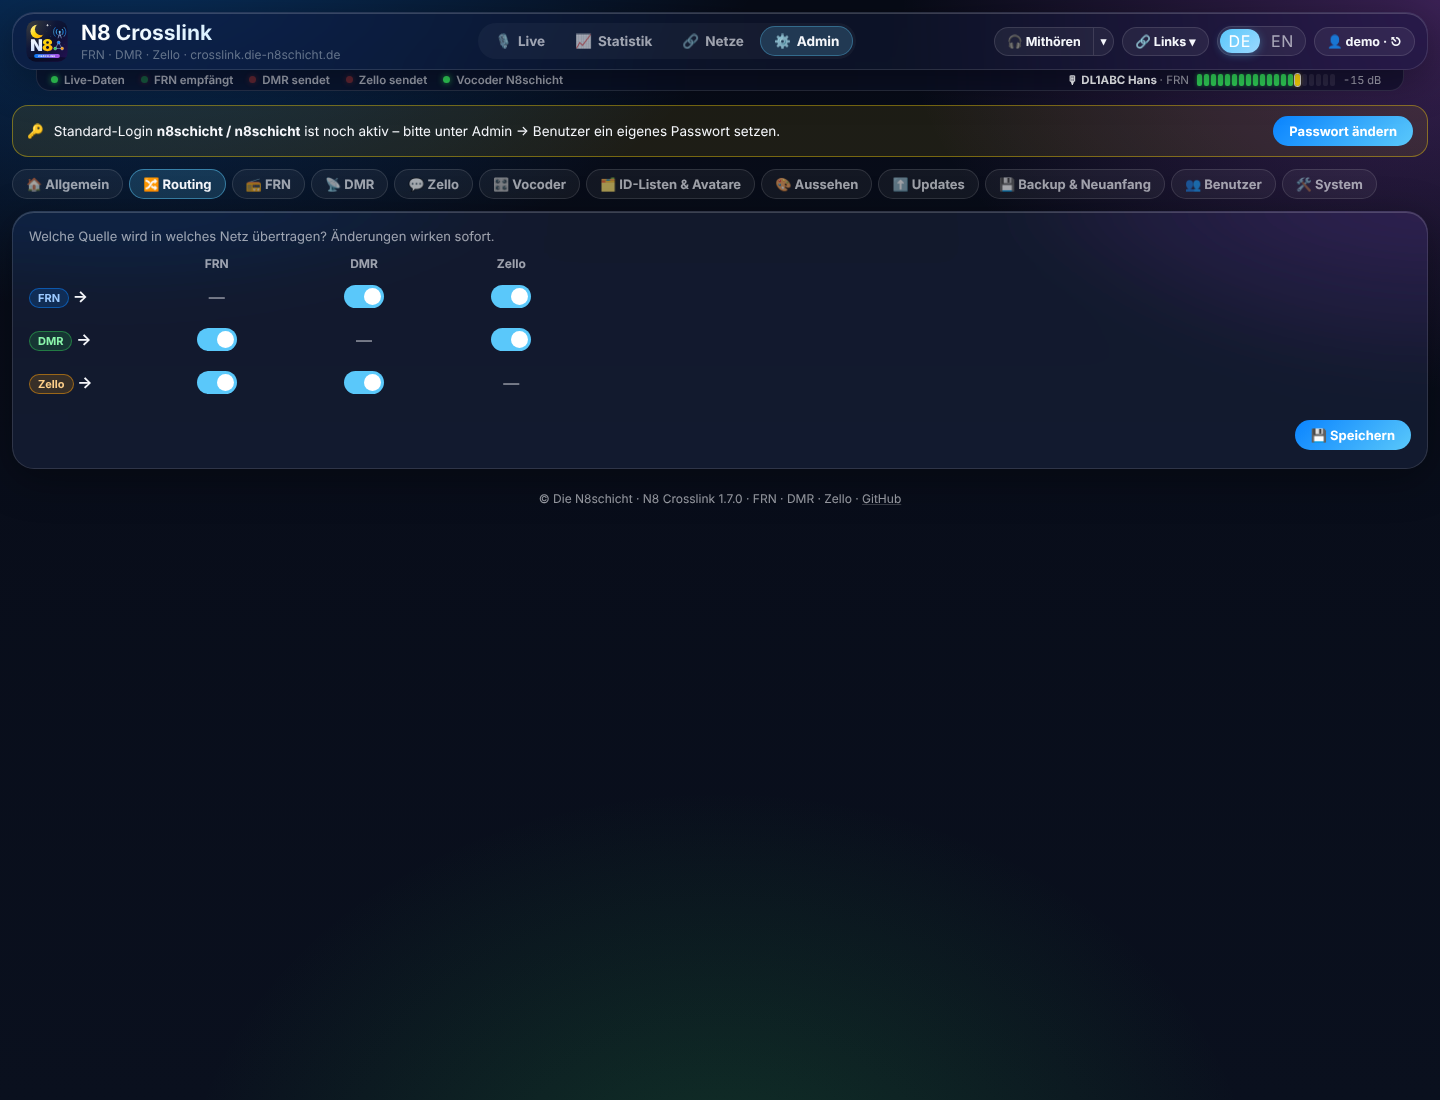
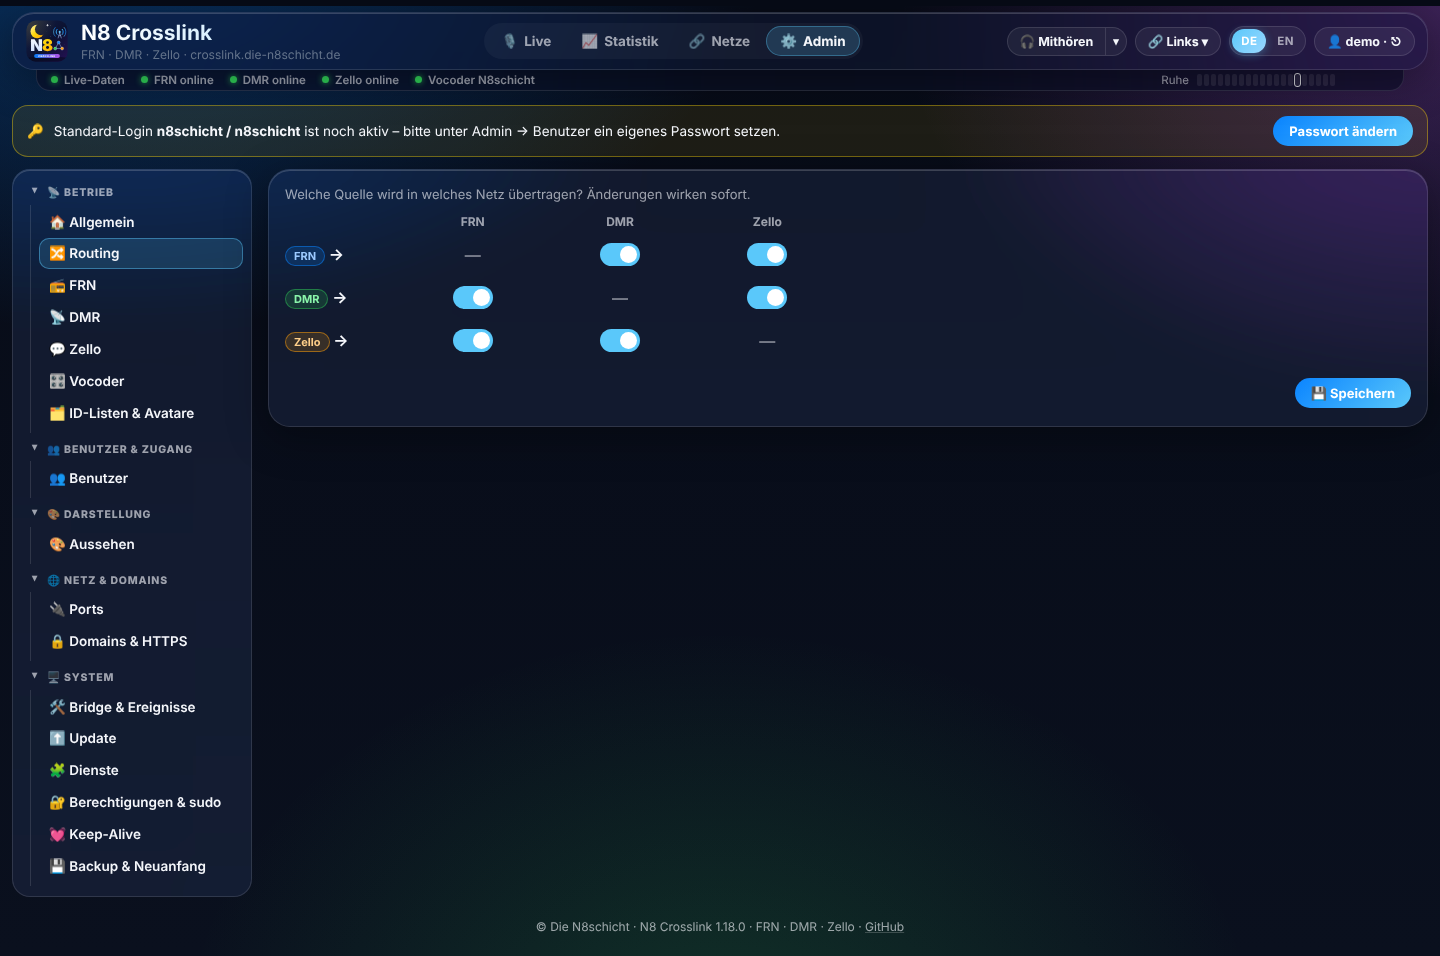
Release 1.18.0: Baum-Menü, einheitlicher Bereich System, Keep-Alive
Ausführlich in CHANGELOG.md. Doku (Konfiguration, Betrieb, Installation, Fehlersuche, README) und Screenshots aktualisiert.

Claude-Session: https://claude.ai/code/session_01J5RG2nh5KG4yZP2DtuvZ9u

diff --git a/n8crosslink/web/static/n8-kit.css b/n8crosslink/web/static/n8-kit.css
@@ -157,3 +157,4 @@ html[data-theme-mode=light] .n8-log { background: rgba(0, 0, 0, .05); }
 .n8-admin-main .grid > .tile, .n8-admin-main .tiles > .tile, .hb-admin .station-grid > .tile { display: flex; flex-direction: column; min-width: 0; }
 .n8-admin-main .grid > .tile > .actions:last-child, .hb-admin .station-grid > .tile > .set-actions:last-child { margin-top: auto; padding-top: 12px; }
 .n8-sys-extra > .grid { grid-template-columns: 1fr !important; }
+.n8-card > p.n8-help { margin: 0 0 10px; }

diff --git a/n8crosslink/__init__.py b/n8crosslink/__init__.py
@@ -1,2 +1,2 @@
 """N8 Crosslink – FRN · DMR · Zello Bridge im Die-N8schicht-Design."""
-__version__ = "1.17.0"
+__version__ = "1.18.0"

diff --git a/docs/BETRIEB.md b/docs/BETRIEB.md
@@ -1,4 +1,4 @@
-# Betrieb: Watchdogs, Updates, sudo & Berechtigungen
+# Betrieb: Watchdogs, Keep-Alive, Updates, sudo & Berechtigungen
 
 ## Watchdogs
 
@@ -13,21 +13,41 @@
 
 Jeder Verbindungsverlust und jede Wiederherstellung steht in den Ereignissen; Zähler (Wiederverbindungen, Neuaufbauten, letzter Grund, online/offline seit) unter **Netze**.
 
+### 💓 Keep-Alive (von außen, als root)
+
+![Keep-Alive](screenshots/admin-keepalive.png)
+
+Seit **1.18.0** wacht zusätzlich ein Keep-Alive **von außerhalb** der Bridge – derselbe wie in HobbyRadioPortal, ADN-FRN-Server,
+HBlink4-FreeRadioID und N8 Hotspot (N8 Admin-Kit, `scripts/n8-admin.sh`). `n8crosslink-keepalive.timer` startet **jede Minute als root**
+`scripts/n8-admin.sh keepalive` und fragt `/api/n8/health` (nur lokal erreichbar):
+
+| Was | Wie |
+|---|---|
+| **Weboberfläche** | antwortet sie? |
+| **FRN · DMR · Zello · Vocoder** | jedes eingeschaltete Netz wirklich verbunden (FRN angemeldet, DMR am Master, Zello im Kanal), Vocoder bereit |
+| **Neustart** | die Bridge verbindet sich selbst neu – erst wenn ein Netz **5 Minuten** weg bleibt (oder der Dienst `failed` ist), startet der Keep-Alive `n8crosslink.service` neu, **höchstens 4× je Stunde** |
+| **Internet-Ausfall** | 1.1.1.1, 9.9.9.9 und github.com (Port 443) nicht erreichbar → keine sinnlosen Neustarts; ist das Netz nach mindestens 60 s wieder da, wird die Bridge einmal neu gestartet, damit alle drei Netze sofort wieder stehen |
+| **Heartbeat** | optional jede Minute ein Ping an Uptime Kuma („Push“) oder Healthchecks.io, bei Fehlern an die Fehler-Adresse |
+| **Wartung** | **⏸ 1 h pausieren**; ein unter *Dienste* gestoppter Dienst bleibt gestoppt |
+
+Einstellungen unter **⚙ Admin → 🖥 System → 💓 Keep-Alive**; Dateien `data/keepalive.conf`, `keepalive.json`, `keepalive.log`.
+Eingerichtet von Installer, Update und `install.sh --fix-perms`.
+
 ## Updates
 
 Hinweis, Updates-Seite und Fortschritt kommen aus dem **N8 Kit** und sehen in N8 Crosslink, HBlink4-FreeRadioID, adn-frn-server und N8-HotSpot gleich aus (siehe [SICHERHEIT.md](SICHERHEIT.md#n8-kit)).
 
 * Prüfung **stündlich zur vollen Stunde** (und kurz nach dem Start): Versionsnummer in `n8crosslink/__init__.py` auf GitHub (`dhartmann1979/N8Crosslink`, Branch `main`) gegen die installierte Version.
-* Neue Version → Hinweis unter der Statusleiste für angemeldete Admins: *Update verfügbar: 1.6.0 → 1.7.0* mit **Was ist neu?** (aus `CHANGELOG.md`), **Jetzt aktualisieren**, **Details** (öffnet Admin → Updates) und **Später** (blendet den Hinweis für diese Version einen Tag aus).
+* Neue Version → Hinweis unter der Statusleiste für angemeldete Admins: *Update verfügbar: 1.6.0 → 1.7.0* mit **Was ist neu?** (aus `CHANGELOG.md`), **Jetzt aktualisieren**, **Details** (öffnet Admin → System → Update) und **Später** (blendet den Hinweis für diese Version einen Tag aus).
 * **Jetzt aktualisieren** öffnet ein Fenster mit den Neuerungen; nach der Bestätigung drei Schritte mit Fortschritt: *Update wird geladen und eingespielt → Dienst startet neu → Weboberfläche wird geprüft*. Technisch startet es über sudo `n8crosslink-update.service` (als root) → `update.sh --auto`: Quellen holen, Installer im Update-Modus (Abhängigkeiten, Berechtigungen, sudo-Freigaben), Dienst neu starten, Weboberfläche per HTTP prüfen. Antwortet sie nicht, stellt `update.sh` die vorige Version wieder her. Die Seite lädt danach von selbst neu.
-* Ergebnis unter **Admin → Updates → Letztes Update** (*erfolgreich* oder *zurückgenommen*), gespeichert in `data/update.result` – dasselbe Format wie in den anderen N8schicht-Projekten.
+* Ergebnis unter **Admin → System → ⬆ Update** (Kachel *Update-Protokoll*) (*erfolgreich* oder *zurückgenommen*), gespeichert in `data/update.result` – dasselbe Format wie in den anderen N8schicht-Projekten.
 * Ersatzweg ohne sudo: `n8crosslink-update.path` reagiert auf `data/update.request`.
 
 ![Updates](screenshots/admin-updates.png)
 
 ## Dienste
 
-**⚙ Admin → 🛠 System → Dienste** zeigt schlank alle freigegebenen Dienste: Status (läuft / gestoppt / Fehler), **Autostart** als Schalter
+**⚙ Admin → 🖥 System → 🧩 Dienste** zeigt schlank alle freigegebenen Dienste: Status (läuft / gestoppt / Fehler), **Autostart** als Schalter
 (aktivieren/deaktivieren beim Booten) und je nach Zustand **🔄 Neu starten** und **⏹ Stoppen** oder **▶ Starten**. Dabei sind
 `n8crosslink.service`, der Update-Auslöser `n8crosslink-update.path` und erkannte alte Dienste (svxlink, mmdvm_bridge, analog_bridge,
 ambeserver, Zello-Bridge). Stoppen oder Autostart aus fragt nach; wer N8 Crosslink selbst stoppt, startet es danach nur auf der Konsole wieder
@@ -64,7 +84,7 @@ sudo /opt/n8crosslink/install.sh --check-perms     # nur prüfen, ändert nichts
 sudo /opt/n8crosslink/install.sh --fix-perms       # prüfen → korrigieren (auch sudo) → erneut prüfen
 ```
 
-Im Webinterface: **⚙ Admin → 🛠 System → 🔐 Berechtigungen & sudo** – die Liste wird beim Öffnen geprüft, **🛠 Korrigieren** repariert
+Im Webinterface: **⚙ Admin → 🖥 System → 🔐 Berechtigungen & sudo** – die Liste wird beim Öffnen geprüft, **🛠 Korrigieren** repariert
 und zeigt das Ergebnis der zweiten Prüfung.
 
 ![Berechtigungen & sudo](screenshots/admin-perms.png)

diff --git a/README.md b/README.md
@@ -36,12 +36,12 @@ Alles läuft in **einem** Python-Dienst mit Live-Dashboard und Adminportal – i
 | 💾 **Backup** | Alles als vollständig verschlüsselte Datei zum Download (AES-256-GCM). **Der Schlüssel ist das Superadmin-Passwort – im Passwortsafe aufbewahren!** Wiederherstellen im Webinterface, per CLI oder direkt im Installer. |
 | ♻ **Neuanfang** | Zurücksetzen im Webinterface (Verlauf / Einstellungen / alles) und `uninstall.sh` mit „Daten behalten“ oder „komplett entfernen“, inkl. Wiedereinschalten der alten Dienste |
 | 📊 **Dashboard** | On-Air-Anzeige mit Pegel und Zeit, Netzkarten mit RX/TX – **LEDs: 🔴 Rot = Senden, 🟣 Magenta = Empfangen, 🟢 Grün = Dienst ok** –, Last Heard, FRN-Raumliste, Ereignisse, Statistik (Heute … 90 Tage) |
-| ⚙ **Adminportal** | Alle Einstellungen in SQLite, Benutzerverwaltung, Bridge-/Dienst-Neustart, ID-Datenbank-Update, Export/Import |
+| ⚙ **Adminportal** | Baum-Menü und Bereich *System* wie in allen N8-Systemen, alle Einstellungen in SQLite, Benutzerverwaltung, Bridge-/Dienst-Neustart, ID-Datenbank-Update, Export/Import |
 | 🔊 **Sprachansage & Sprechername** | Optional: Computerstimme sagt das Rufzeichen am Anfang des Durchgangs an (espeak-ng, Buchstaben oder NATO, je Zielnetz). Sprechername als FRN-Textnachricht – öffentlich oder **privat nur an ausgewählte Stationen** |
-| 🐕 **Watchdogs** | Jede Verbindung (FRN, DMR, Zello) baut sich nach einem Abbruch selbst neu auf; zusätzlich baut ein Watchdog ein Netz komplett neu auf, wenn es zu lange offline bleibt oder seine Verbindungsschleife stirbt. Der Vocoder wird bei Ausfall neu geöffnet (AMBEserver im Lockstep mit neuem Socket nach jedem Timeout), und der systemd-Watchdog startet den Dienst neu, falls er hängt |
+| 🐕 **Watchdogs** | Jede Verbindung (FRN, DMR, Zello) baut sich nach einem Abbruch selbst neu auf; zusätzlich baut ein Watchdog ein Netz komplett neu auf, wenn es zu lange offline bleibt oder seine Verbindungsschleife stirbt. Der Vocoder wird bei Ausfall neu geöffnet (AMBEserver im Lockstep mit neuem Socket nach jedem Timeout), und der systemd-Watchdog startet den Dienst neu, falls er hängt. **💓 Keep-Alive** von außen (jede Minute als root): prüft jedes Netz, startet nach 5 Minuten Ausfall neu, erkennt Internet-Ausfälle, meldet sich bei Uptime Kuma / Healthchecks.io |
 | 🗂 **ID-Listen** | Alle Listen der FreeRadioID.net-API (alle DMR-IDs, registrierte IDs, Einzelabfrage unbekannter IDs) plus Talkgroup-Namen aus `n8schicht/talkgroup_ids.json` – 1× täglich und per Knopf |
 | 🖼 **Avatare** | In SQLite zwischengespeichert (192 px WebP), 1× täglich oder per Knopf aktualisiert: FreeRadioID-Bilder für DMR, Rufzeichen-Zuordnung für FRN und Zello, eigene Zello-Bilder per Upload |
-| ⬆ **Updates** | Prüfung stündlich zur vollen Stunde, Banner mit Änderungen, **„Update jetzt“** direkt im Webinterface |
+| ⬆ **Updates** | Prüfung stündlich zur vollen Stunde, Banner mit Änderungen, **„Update jetzt“** direkt im Webinterface (ohne Passwort, mit Update-Protokoll) |
 | 🛠 **Alles im Webinterface** | Dank eng begrenztem `sudo`: Dienst-Neustart, N8schicht-Vocoder bauen, alte Dienste (Start/Stopp/Autostart), Berechtigungen prüfen, Server-Neustart |
 | 🧭 **Geführter Installer** | Fragt alles Schritt für Schritt ab, prüft und korrigiert bei jeder Installation und jedem Update die Berechtigungen und sudo (Berechtigungsprüfer `install.sh --check-perms` / `--fix-perms`, auch im Webinterface), richtet sudo ein, löst auf Wunsch SvxLink & alte Zello-Bridge ab |
 
@@ -95,15 +95,15 @@ Senden in die Netze:
 |---|---|
 | ![FRN-Passwort](docs/screenshots/admin-frn-passwort-anfordern.png) | ![FRN](docs/screenshots/admin-frn.png) |
 
-| Admin – ID-Listen & Avatare | Admin – Updates |
+| Admin – ID-Listen & Avatare | Admin – System → Update (Baum-Menü wie in allen N8-Systemen) |
 |---|---|
 | ![ID-Listen](docs/screenshots/admin-idlisten-avatare.png) | ![Updates](docs/screenshots/admin-updates.png) |
 | **🎨 Aussehen** – N8 Theme 2, gleiche Farbprofile wie die anderen N8-Seiten | **🌐 Englisch** – Umschalter DE \| EN oben rechts |
 | ![Aussehen](docs/screenshots/admin-aussehen.png) | ![Englisch](docs/screenshots/dashboard-englisch.png) |
 
-| Admin – System (Dienste über sudo, Demo ohne systemd) | Admin – DMR |
+| Admin – System → 💓 Keep-Alive | Admin – DMR |
 |---|---|
-| ![System](docs/screenshots/admin-system.png) | ![DMR](docs/screenshots/admin-dmr.png) |
+| ![Keep-Alive](docs/screenshots/admin-keepalive.png) | ![DMR](docs/screenshots/admin-dmr.png) |
 
 | Hinweise: Update & Standard-Login | Mobil |
 |---|---|
@@ -117,7 +117,7 @@ Senden in die Netze:
 * [Zello verbinden – Schritt für Schritt](docs/ZELLO.md)
 * [Umstieg von SvxLink und der alten Zello-Bridge](docs/MIGRATION.md)
 * [Technik & Protokolle](docs/TECHNIK.md)
-* [Betrieb: Watchdogs, Updates, sudo & Berechtigungen](docs/BETRIEB.md)
+* [Betrieb: Watchdogs, Keep-Alive, Updates, sudo & Berechtigungen](docs/BETRIEB.md)
 * [Sicherheit, Sprache DE/EN & N8 Kit (gemeinsam mit HBlink4, adn-frn-server, N8-HotSpot)](docs/SICHERHEIT.md)
 * [Backup & Wiederherstellung](docs/BACKUP.md)
 * [Deinstallation & von vorn beginnen](docs/DEINSTALLATION.md)

diff --git a/CHANGELOG.md b/CHANGELOG.md
@@ -2,6 +2,55 @@
 
 Alle Änderungen an N8 Crosslink. Versionierung nach [SemVer](https://semver.org/lang/de/).
 
+## [1.18.0] – 2026-11-25
+
+### 🧭 Neu: Admin-Menü als Baum – in allen fünf N8-Systemen gleich
+- Die Reiterleiste im Adminbereich ist einem **Baum-Menü links** gewichen, wie im HobbyRadioPortal. Alle N8-Systeme
+  (HobbyRadioPortal, ADN-FRN-Server, HBlink4-FreeRadioID, N8 Hotspot, N8 Crosslink) nutzen jetzt **dieselben Gruppen in derselben
+  Reihenfolge**: 📡 Betrieb · 👥 Benutzer & Zugang · 🎨 Darstellung · 🌐 Netz & Domains · 🖥 System.
+- Gruppen lassen sich auf- und zuklappen (der Zustand wird im Browser gemerkt); auf dem Handy wird das Menü zu einer
+  aufklappbaren Leiste „☰ <aktueller Bereich>“.
+- Crosslink: Allgemein, Routing, FRN, DMR, Zello, Vocoder und ID-Listen unter **Betrieb**; Ports und Domains unter
+  **Netz & Domains**; „🛠 Bridge & Ereignisse“ und Backup unter **System**.
+
+### 🖥 Neu: Derselbe Bereich „System“ überall
+- **⬆ Update · 🧩 Dienste · 🔐 Berechtigungen & sudo · 💓 Keep-Alive** sind gemeinsame Ansichten des N8 Kit 1.1.0 und sehen in
+  allen N8-Systemen gleich aus – mit denselben Texten, Knöpfen und Adressen (`/api/admin/services`, `/api/admin/perms`,
+  `/api/admin/perms/fix`, `/api/admin/keepalive`, `/api/admin/update-log`).
+- **Update:** Stand, GitHub, „Jetzt prüfen“, „Update jetzt installieren“ und daneben das **Update-Protokoll** mit dem Ergebnis des
+  letzten Updates (erfolgreich / zurückgenommen).
+- **Dienste:** Zustand, Autostart-Schalter und Starten · Stoppen · Neu starten – nur, was die sudo-Regeln freigeben.
+- **Berechtigungen & sudo:** zeigt zuerst nur, was nicht stimmt; die bestandenen Prüfungen klappen auf. **🛠 Korrigieren**
+  repariert und prüft erneut.
+- **Keep-Alive:** Zustand je Dienst, Internet, Heartbeat, Einstellungen und Protokoll.
+
+### 🔓 Update ohne Passwort
+- „Update jetzt“ fragte bei Crosslink schon bisher nicht nach dem Passwort – das gilt jetzt in allen N8-Systemen.
+
+### 📐 Symmetrische Blöcke
+- Kacheln einer Reihe sind im Adminbereich jetzt **gleich hoch**, die Knöpfe stehen unten bündig; eine einzelne letzte Kachel
+  nimmt die volle Breite ein.
+
+### 🧰 Kleinigkeiten
+- N8 Kit: Schriften im Menü und auf den Knöpfen werden jetzt richtig gesetzt (die `font`-Kurzform mit `inherit` war ungültig und
+  wurde vom Browser verworfen).
+
+### 💓 Neu: Keep-Alive – hohe Verfügbarkeit ohne Zutun
+- **Dienste-Wächter:** Ein systemd-Timer (`n8crosslink-keepalive.timer`) prüft **jede Minute als root**, ob jeder Dienst wirklich arbeitet –
+  nicht nur „läuft“, sondern die Weboberfläche antwortet und **jedes eingeschaltete Netz** wirklich verbunden ist (FRN angemeldet, DMR am Master, Zello im Kanal, Vocoder bereit). Bleibt ein Dienst 5 Minuten krank (oder steht er auf `failed`), wird er neu gestartet,
+  **höchstens 4× je Stunde** – danach meldet der Keep-Alive „aufgegeben“ statt endlos neu zu starten.
+- **Netz-Wiederverbindung:** Fällt das Internet aus (1.1.1.1, 9.9.9.9 und github.com auf Port 443 nicht erreichbar), startet der
+  Keep-Alive **nicht** sinnlos neu. Ist das Netz nach mindestens 60 s wieder da, startet er die Netzdienste einmal neu, damit
+  alle Verbindungen sofort wieder stehen (abschaltbar).
+- **Externer Ping (Heartbeat):** Optional eine Adresse für Uptime Kuma („Push“) oder Healthchecks.io – jede Minute ein Ping,
+  wenn alles gesund ist, sonst die Fehler-Adresse. So merkst du auch, wenn der ganze Server weg ist.
+- **Von Hand gestoppt bleibt gestoppt:** Wer einen Dienst im Webinterface stoppt, wird vom Keep-Alive nicht übergangen; erst
+  „Starten“ gibt ihn wieder frei. Für Wartungen gibt es **⏸ 1 h pausieren**.
+- Neue lokale Adresse `/api/n8/health` (nur von 127.0.0.1, nie über einen Proxy) liefert dem Keep-Alive den echten Zustand.
+- Eingerichtet von `install`, `update` und `fix-perms`; `check-perms` prüft den Timer mit.
+
+> Auf bestehenden Servern genügt „Update jetzt“ im Webinterface; der Keep-Alive richtet sich dabei selbst ein.
+
 ## [1.17.0] – 2026-11-25
 
 **🧹 HobbyRadioPortal-Anbindung entfernt · 🧩 Dienste schlank: aktivieren, deaktivieren, starten, stoppen, neu starten.**

diff --git a/docs/KONFIGURATION.md b/docs/KONFIGURATION.md
@@ -1,6 +1,11 @@
 # Konfiguration / Adminportal
 
-Anmelden über **🔐 Login** oben rechts – Standard **n8schicht / n8schicht** (bitte ändern, das Dashboard erinnert daran). Alle Werte liegen in SQLite (`/opt/n8crosslink/data/crosslink.db`); Passwörter werden nie im Klartext angezeigt (Feld leer lassen = unverändert).
+Anmelden über **🔐 Login** oben rechts – Standard **n8schicht / n8schicht** (bitte ändern, das Dashboard erinnert daran).
+
+Seit **1.18.0** steht links ein **Baum-Menü** – dasselbe wie in HobbyRadioPortal, ADN-FRN-Server, HBlink4-FreeRadioID und N8 Hotspot:
+**📡 Betrieb** (Allgemein, Routing, FRN, DMR, Zello, Vocoder, ID-Listen & Avatare) · **👥 Benutzer & Zugang** (Benutzer) ·
+**🎨 Darstellung** (Aussehen) · **🌐 Netz & Domains** (Ports, Domains & HTTPS) · **🖥 System** (Bridge & Ereignisse, Update, Dienste,
+Berechtigungen & sudo, Keep-Alive, Backup & Neuanfang). Auf dem Handy wird es zu einer aufklappbaren Leiste. Alle Werte liegen in SQLite (`/opt/n8crosslink/data/crosslink.db`); Passwörter werden nie im Klartext angezeigt (Feld leer lassen = unverändert).
 
 ## 🏠 Allgemein
 | Feld | Bedeutung |
@@ -130,8 +135,8 @@ Oben rechts neben *Links* schaltet **DE | EN** die Oberfläche um – Standard i
 
 ![Englisch](screenshots/dashboard-englisch.png)
 
-## ⬆ Updates
-Kachel im N8-Kit-Stil: installiert, auf GitHub, zuletzt geprüft, automatische Prüfung, letztes Update (erfolgreich/zurückgenommen), Update-Dienst, Neuerungen, **↻ Jetzt prüfen**, **⬆ Update jetzt installieren** und das Update-Protokoll. Ablauf und Rollback: [BETRIEB.md](BETRIEB.md#updates).
+## ⬆ Update (System)
+Dieselbe Ansicht wie in allen N8-Systemen: installiert, auf GitHub, zuletzt geprüft, automatische Prüfung, letztes Update (erfolgreich/zurückgenommen), Update-Dienst, Neuerungen, **↻ Jetzt prüfen**, **⬆ Update jetzt installieren** (ohne Passwort) und daneben das Update-Protokoll. Ablauf und Rollback: [BETRIEB.md](BETRIEB.md#updates).
 
 ## 🎛 Vocoder
 Betriebsart (N8schicht-Vocoder, USB-Stick, AMBEserver, Test), Pegel und Watchdog. Beim N8schicht-Vocoder öffnet **🎚 Klang-Einstellungen** auf der Karte ein Popup mit Reglern (wirken sofort), Grundabstimmung und Probehören – alle Regler erklärt in [VOCODER.md](VOCODER.md#-klang-einstellungen-popup).
@@ -195,5 +200,5 @@ Ports um (`nginx -t` vorher, sonst bleibt der alte Stand). Danach steht oben, wa
 API: `GET/POST /api/admin/ports`, `POST /api/admin/ports/apply` (nur angemeldete Admins). Der eigene DMR-Port steht zusätzlich unter
 *📡 DMR → Erweitert* (`dmr.local_port`).
 
-## 👥 Benutzer · 🛠 System
-Benutzer anlegen/löschen/Passwort ändern. System: **Dienste** (N8 Crosslink, Update-Auslöser, erkannte alte Dienste wie svxlink/mmdvm_bridge/Zello-Bridge) schlank mit Status, Autostart-Schalter und Starten/Stoppen/Neu starten; **🔐 Berechtigungen & sudo** (Liste aller Prüfungen, **🛠 Korrigieren** repariert und prüft erneut); **Server neu starten** (falls bei der Installation erlaubt); Bridge neu starten (nur die Netze), Dienst neu starten, ID-Listen aktualisieren, Konfiguration exportieren/importieren (ohne Passwörter), Ereignisprotokoll. Siehe [BETRIEB.md](BETRIEB.md).
+## 👥 Benutzer · 🖥 System
+Benutzer anlegen/löschen/Passwort ändern. Unter **System**: **🧩 Dienste** (N8 Crosslink, Update-Auslöser, erkannte alte Dienste wie svxlink/mmdvm_bridge/Zello-Bridge) schlank mit Status, Autostart-Schalter und Starten/Stoppen/Neu starten; **🔐 Berechtigungen & sudo** (zeigt, was nicht stimmt, **🛠 Korrigieren** repariert und prüft erneut); **💓 Keep-Alive**; **🛠 Bridge & Ereignisse** mit **Server neu starten** (falls bei der Installation erlaubt), Bridge neu starten (nur die Netze), Dienst neu starten, ID-Listen aktualisieren, Konfiguration exportieren/importieren (ohne Passwörter), Ereignisprotokoll. Siehe [BETRIEB.md](BETRIEB.md).

diff --git a/docs/FEHLERSUCHE.md b/docs/FEHLERSUCHE.md
@@ -25,7 +25,7 @@
 | Zello-Kanal „offline“ | Konto ist nicht Mitglied des Kanals oder der Kanal erlaubt keine API-Clients. |
 | Durchsagen werden „blockiert“ | Gleichzeitig wurde auf einem anderen Netz gesprochen – gewollter Schleifenschutz. Sperrzeit ggf. verkleinern. |
 | „sudo nicht eingerichtet“ im Adminportal | Einmal `sudo /opt/n8crosslink/update.sh` ausführen (legt sudo-Freigaben und Update-Dienst an). |
-| „Update jetzt“ passiert nichts | Admin → ⬆ Updates → Protokoll; sonst `journalctl -u n8crosslink-update -n 50`. |
+| „Update jetzt“ passiert nichts | Admin → System → ⬆ Update → Update-Protokoll; sonst `journalctl -u n8crosslink-update -n 50`. |
 | Login n8schicht geht nicht | Es gibt schon andere Benutzer (der Standard-Login wird nur beim allerersten Start angelegt). Passwort neu setzen: `echo 'neu12345' \| sudo -u n8crosslink /opt/n8crosslink/venv/bin/python -m n8crosslink.cli admin n8schicht` |
 | Keine Avatare | ID-Listen noch nicht geladen (Admin → ID-Listen & Avatare), Station nicht bei FreeRadioID registriert oder ohne Profilbild. |
 | Dashboard ohne Live-Daten hinter nginx | WebSocket-Weiterleitung fehlt (`Upgrade`/`Connection`-Header, siehe `systemd/nginx-n8crosslink.conf`). |

diff --git a/docs/INSTALLATION.md b/docs/INSTALLATION.md
@@ -54,7 +54,7 @@ Bei jeder Installation und jedem Update (auch „Update jetzt“ aus dem Webinte
 | USB-Stick | Gruppe `dialout` (bzw. Gerätegruppe) | Dienstbenutzer wird ergänzt |
 
 Von Hand: `sudo /opt/n8crosslink/install.sh --check-perms` (nur prüfen) bzw. `--fix-perms` (prüfen, korrigieren inkl. sudo, erneut prüfen)
-oder Admin → 🛠 System → **🔐 Berechtigungen & sudo**. Alle Prüfungen im Einzelnen: [BETRIEB.md](BETRIEB.md#berechtigungen--sudo-prüfen-und-korrigieren).
+oder Admin → 🖥 System → **🔐 Berechtigungen & sudo**. Alle Prüfungen im Einzelnen: [BETRIEB.md](BETRIEB.md#berechtigungen--sudo-prüfen-und-korrigieren).
 
 ## Wichtige Befehle
 
